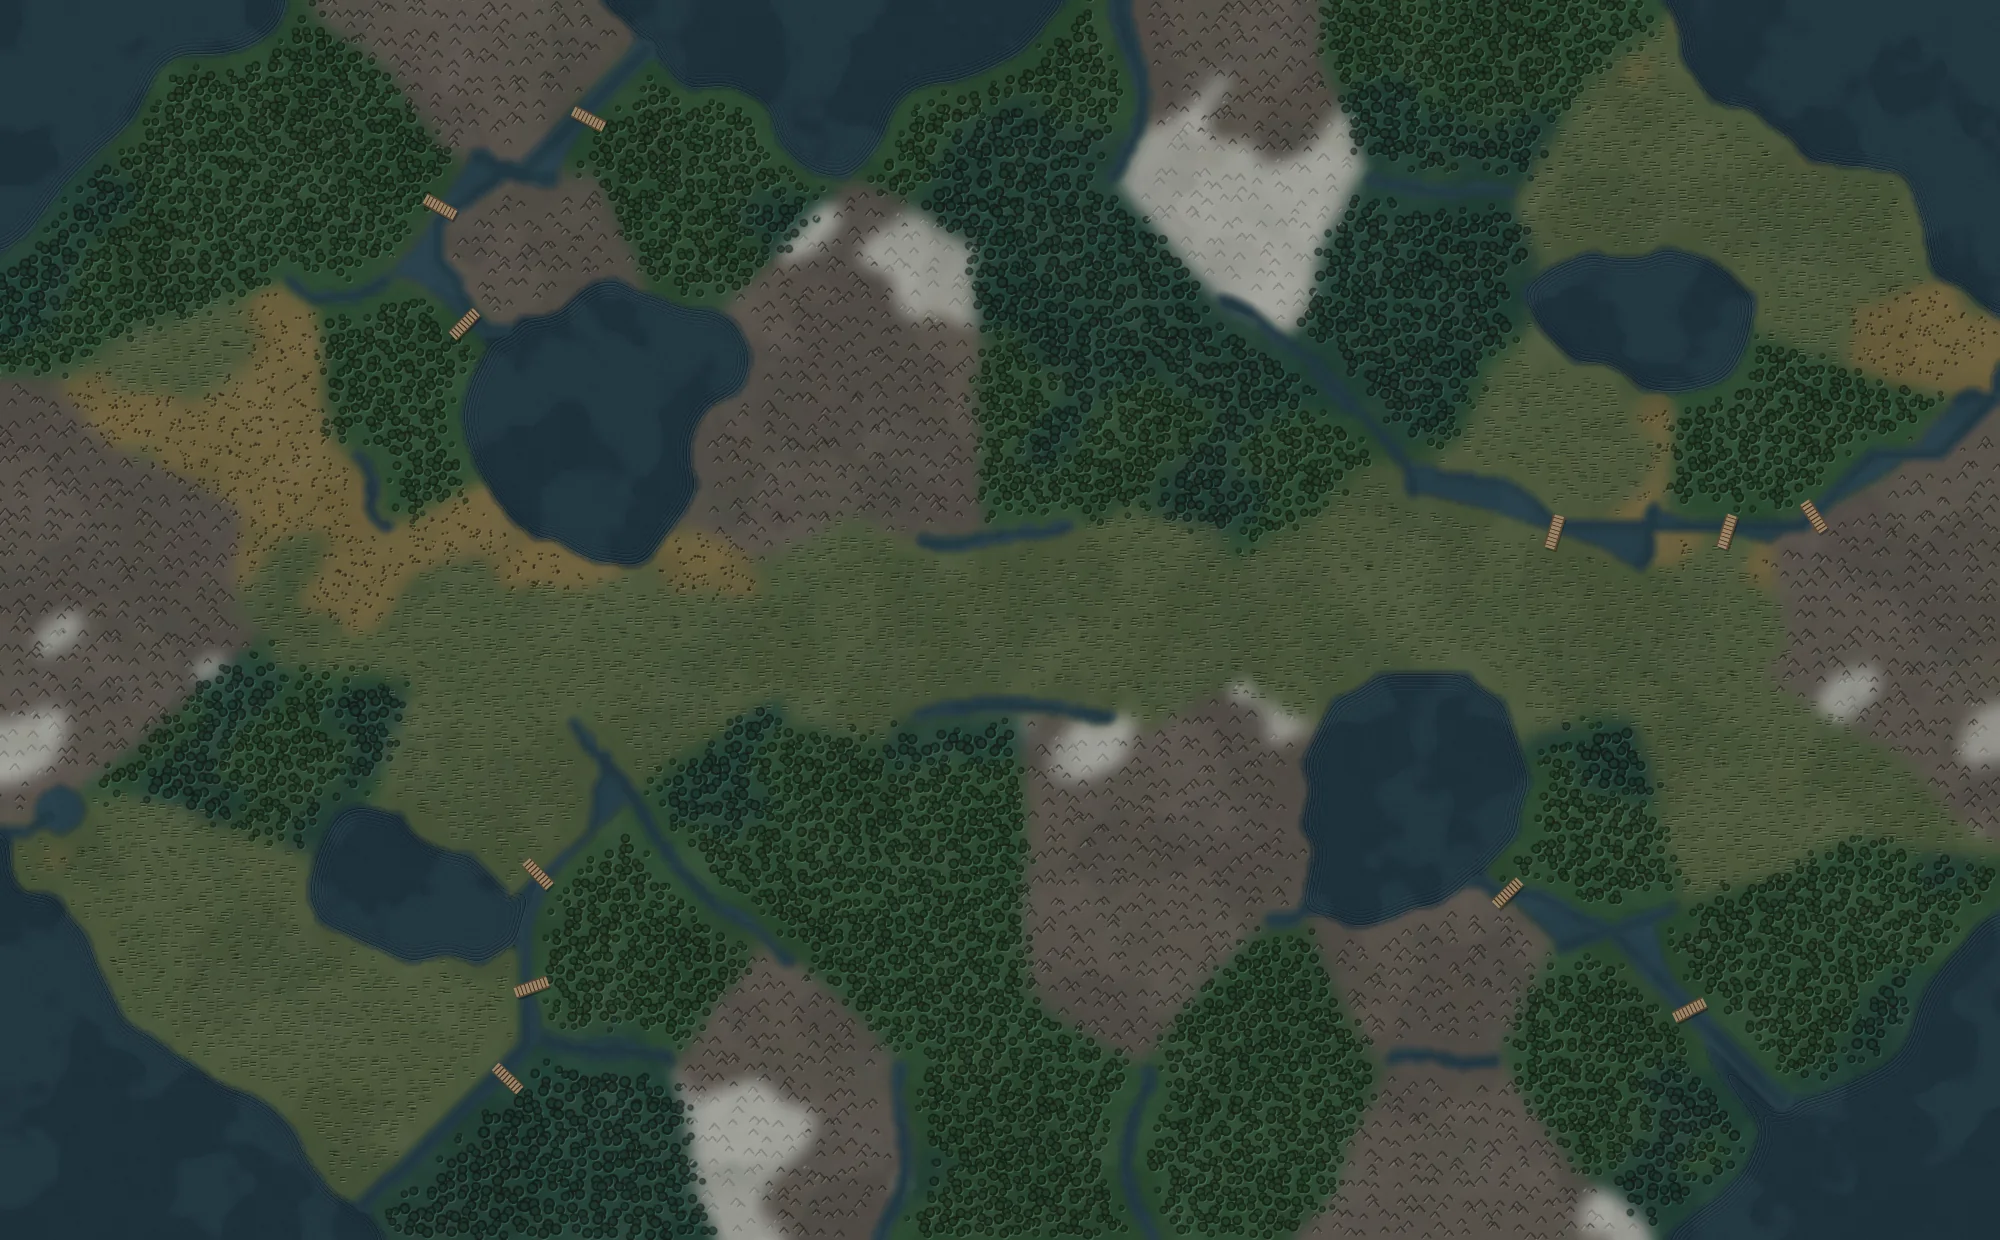
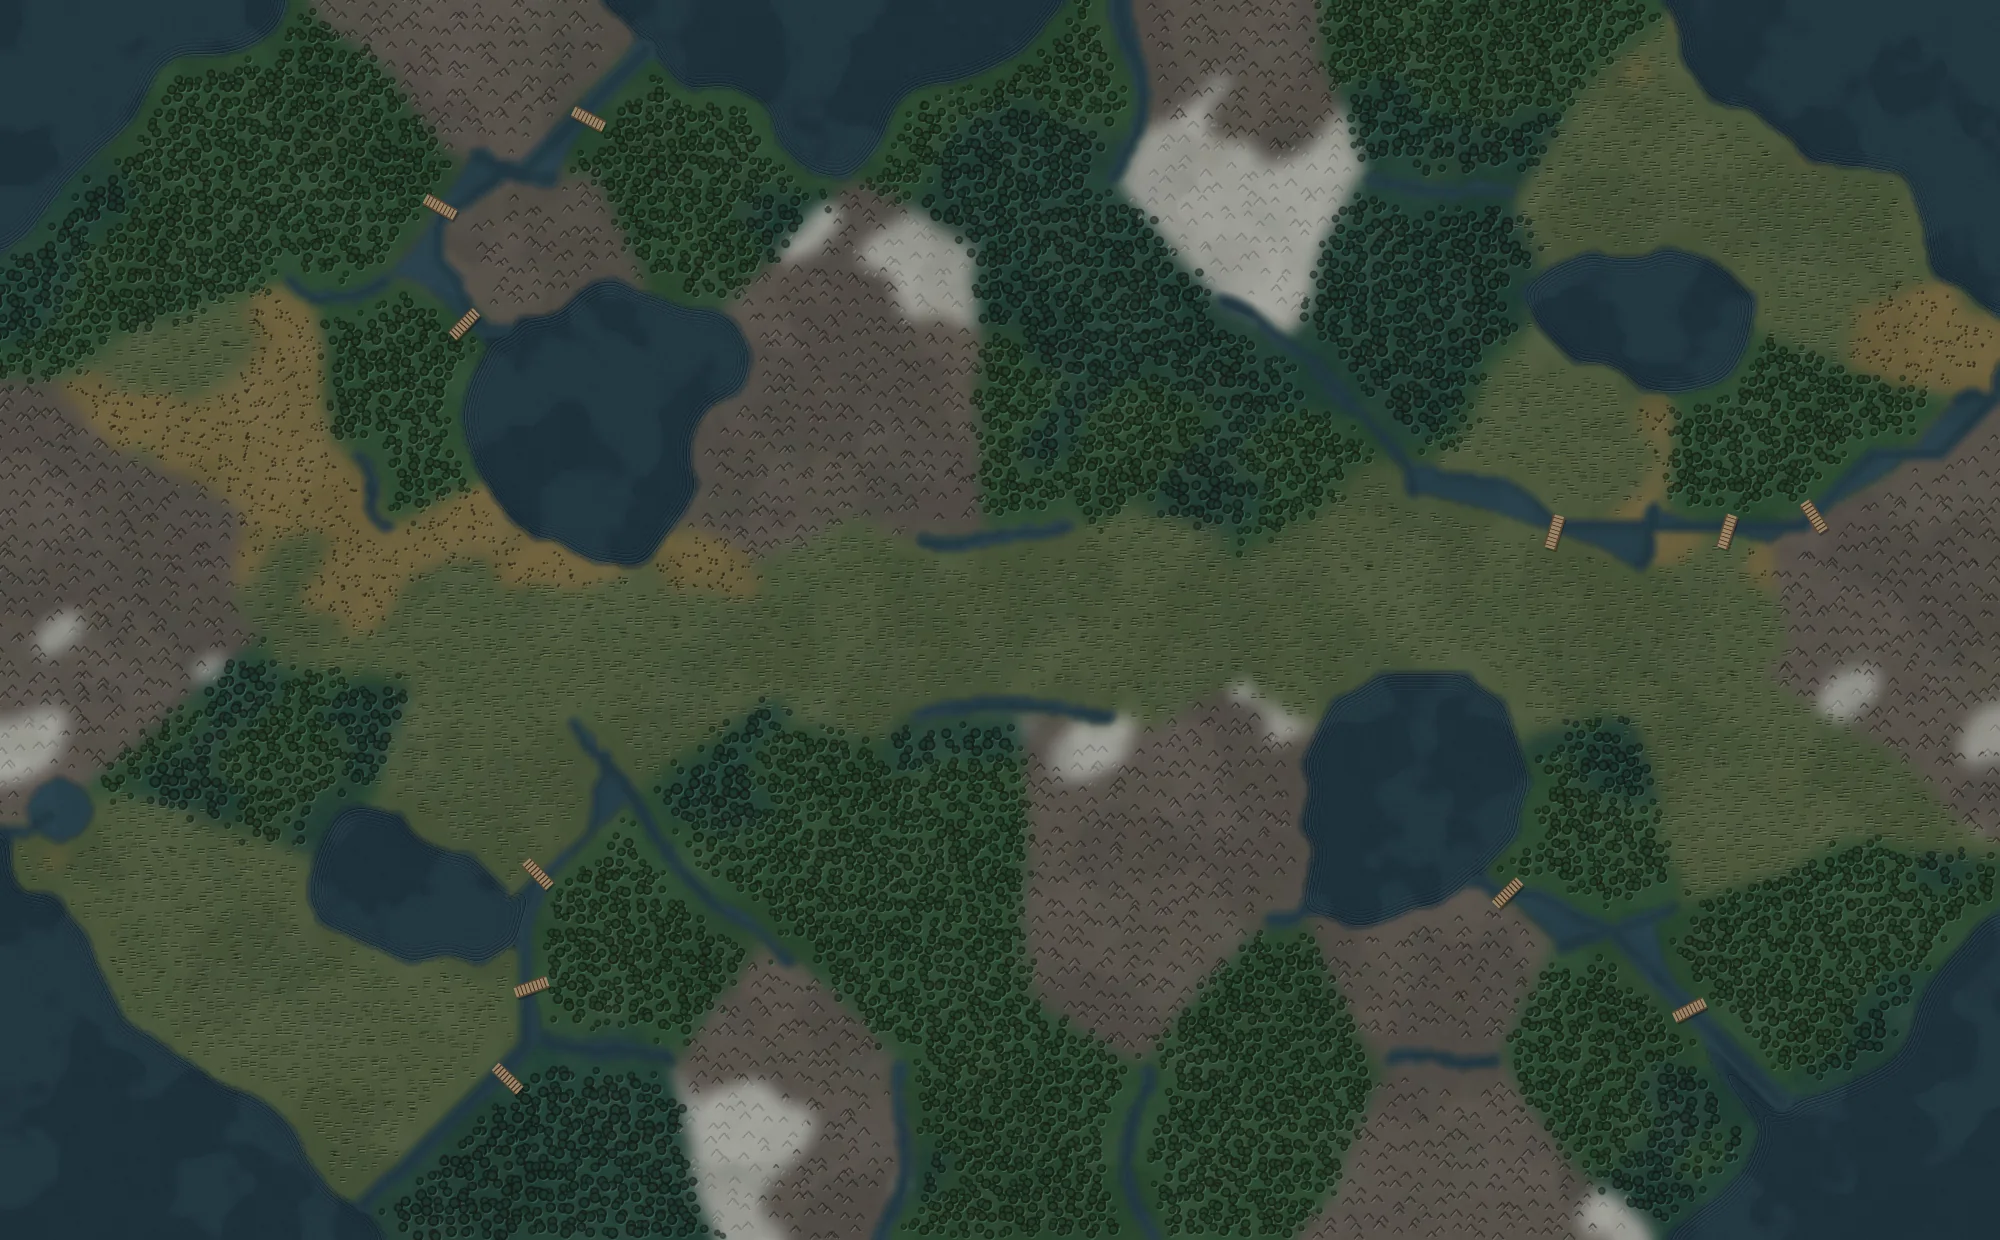
feat(maps): ponds of 160 cells, docs for water as a border (#944)

diff --git a/tools/maps/src/gow_maps/geo.py b/tools/maps/src/gow_maps/geo.py
@@ -91,8 +91,8 @@ POCKET_CELLS = 60
 POCKET_REACH = 3
 POCKET_TRIES = 24
 POND_SMALL = 40
-POND_CELLS = 100
-POND_REACH = 40.0
+POND_CELLS = 160
+POND_REACH = 60.0
 POND_CLEAR = (16.0, 50.0)
 
 WaterKind = Literal["sea", "lake"]

diff --git a/docs/design/map-format.md b/docs/design/map-format.md
@@ -173,8 +173,8 @@ or lake in it) of at most `geo.POCKET_CELLS` (60) cells, about a stream 60 units
   each of `geo.POCKET_TRIES` (24) cells of the pocket as that point (every area's distance less its distance there).
   A try counts only if it fills the pocket whole and leaves every area one piece.
 - A pocket of at most `geo.POND_SMALL` (40) cells that cannot be filled (five areas round it with roads only between
-  neighbours: no four of them can meet at a point) is widened round itself into a pond of `geo.POND_CELLS` (100) cells,
-  at most `geo.POND_REACH` (40 units) out, keeping `geo.POND_CLEAR` (16 units) off a road and 50 off a node. Land only
+  neighbours: no four of them can meet at a point) is widened round itself into a pond of `geo.POND_CELLS` (160) cells,
+  at most `geo.POND_REACH` (60 units) out, keeping `geo.POND_CLEAR` (16 units) off a road and 50 off a node. Land only
   becomes water, so no land contact appears.
 - A bigger pocket is a piece of a stream that reads as one and stays.
 

diff --git a/docs/design/mechanics.md b/docs/design/mechanics.md
@@ -4088,7 +4088,7 @@ Proposal (each item is a default for the owner to confirm or change):
    for the offline maps and the per-match maps of `gow_server.mapgen`) fills a pocket of streams only (no sea or
    lake in it) of at most 60 cells of 4 x 4 units (a stream piece of about 60 units) with land where item 3
    allows it (four areas without roads across meet at a point); one of at most 40 cells that cannot be filled
-   (five areas round it with roads only between neighbours) is widened into a pond of 100 cells. A presentation
+   (five areas round it with roads only between neighbours) is widened into a pond of 160 cells. A presentation
    rule, no game rule: the map files, their hashes and the replays do not change (item 7).
 7. **What does not change.** The graph, the roads and their levels, `travel_ticks`, `border_permille`, capacities,
    supply, vision (DEC-21, DEC-35), fights, the ruleset, `PlayerView`, the protocol, `SIM_VERSION`,
